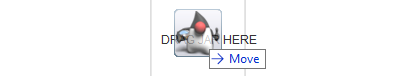
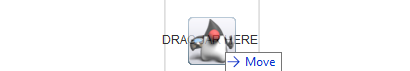
Added look-and-feel

Changed region(s): [[0.3805, 0.0, 0.7024, 0.9577]]

diff --git a/src/main/java/me/accessmodifier364/jat/gui/GraphicalInterface.java b/src/main/java/me/accessmodifier364/jat/gui/GraphicalInterface.java
@@ -8,6 +8,7 @@ import me.accessmodifier364.jat.util.JarReaderUtil;
 
 import javax.swing.*;
 import javax.swing.filechooser.FileNameExtensionFilter;
+import javax.swing.plaf.nimbus.NimbusLookAndFeel;
 import javax.swing.table.DefaultTableModel;
 import java.awt.*;
 import java.awt.datatransfer.DataFlavor;
@@ -43,15 +44,19 @@ public final class GraphicalInterface extends JFrame {
      * @throws HeadlessException From parent.
      */
     public GraphicalInterface() throws HeadlessException {
-        super("Jar Analyzer Tool v1.0");
+        super("Jar Analyzer Tool v1.1");
 
-        /* Set some attributes to our gui (icon, size, background color). */
+        /* Set some attributes to our gui (icon, size, background color, look-and-feel). */
         setLayout(null);
         setResizable(false);
         getContentPane().setBackground(color);
         setDefaultCloseOperation(JFrame.EXIT_ON_CLOSE);
         setIconImage(new ImageIcon(Objects.requireNonNull(getClass().getResource("/assets/icon.png"))).getImage());
         setSize(450, 400);
+        try {
+            UIManager.setLookAndFeel(new NimbusLookAndFeel());
+        } catch (UnsupportedLookAndFeelException ignored) {
+        }
 
         /* Add the "Start" button which runs all the checks. */
         final JButton button = new JButton("Start");
